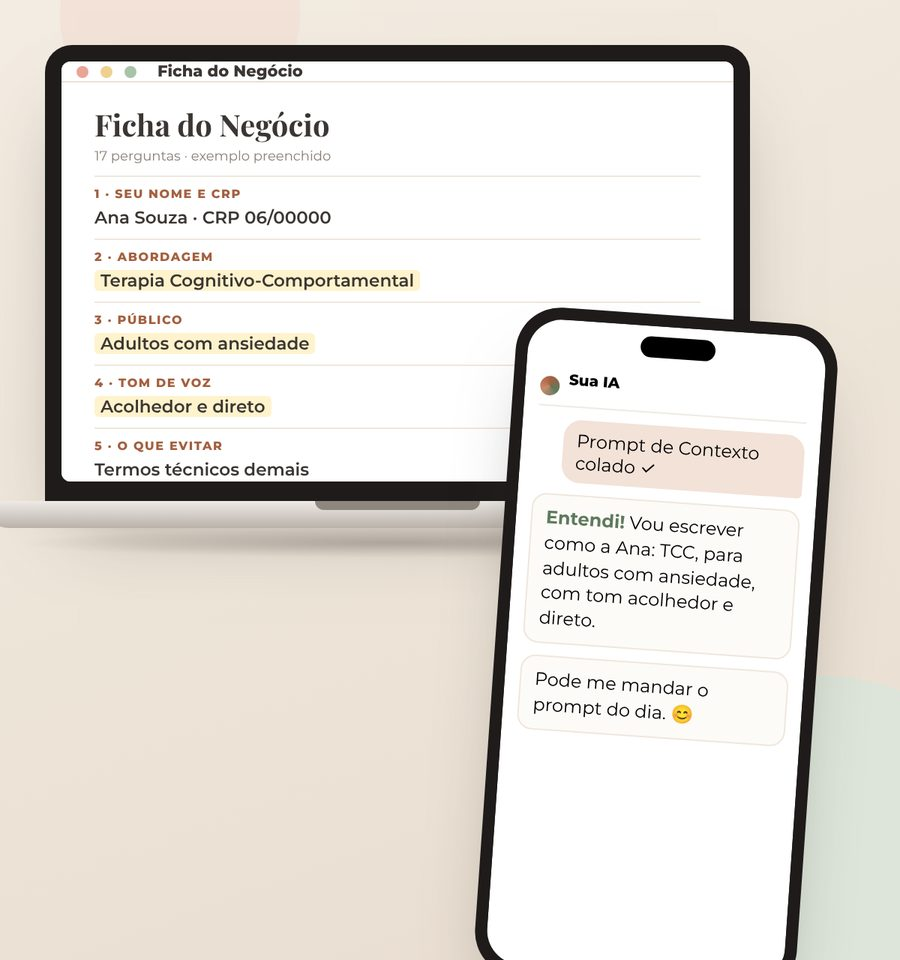
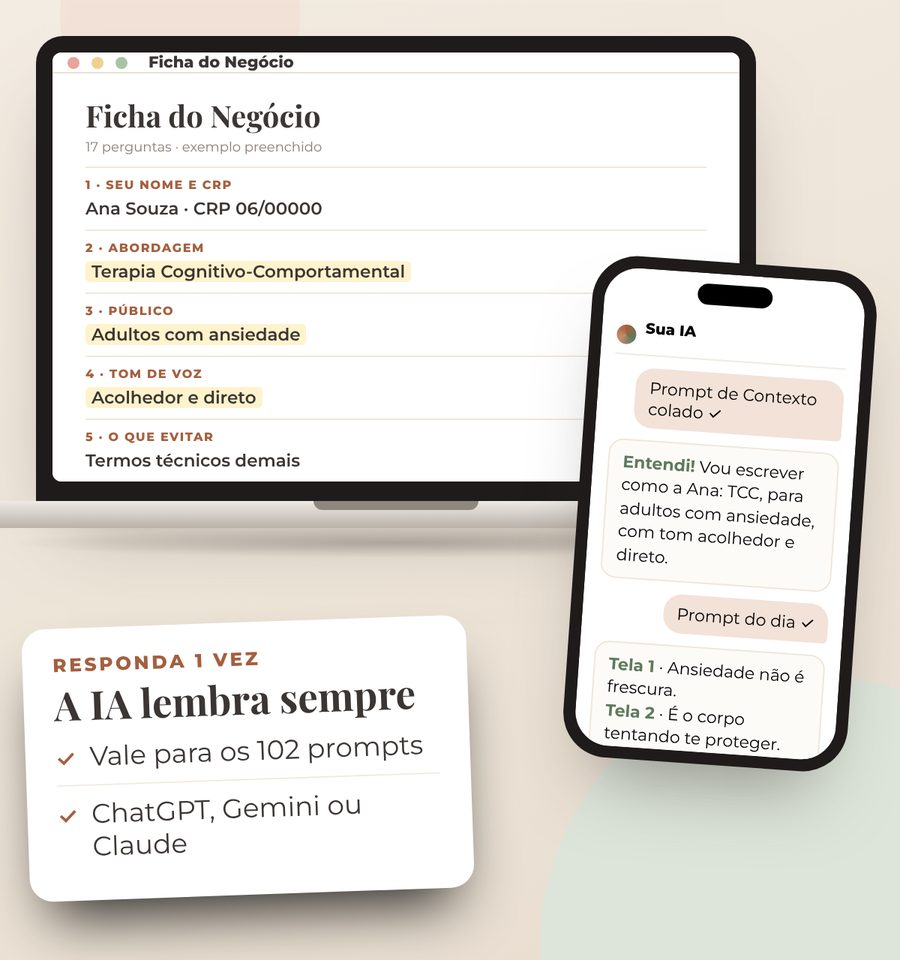
Item Ficha: menos espaço vazio, celular mais curto, cartão 'A IA lembra sempre'
Claude-Session: https://claude.ai/code/session_019gApqEvePQwvVzz1sAvbWL

diff --git a/index.html b/index.html
@@ -1548,7 +1548,7 @@ html,body{overflow-x:clip}
     <div class="itens">
       <article class="it"><div class="it-img"><picture><source media="(max-width:820px)" srcset="img/item-calendario-m.jpg?v=3" width="900" height="960"><img src="img/item-calendario.jpg?v=3" alt="Calendário 365 automático" loading="lazy" width="1440" height="900"></picture></div><div class="it-txt"><span class="it-tag">Calendário</span><h3>Calendário 365 automático</h3><p>Você coloca a data de início e ele organiza o seu ano inteiro: um pilar para cada dia da semana, mais de 700 temas e 8 datas especiais. Todo dia, a aba Hoje entrega o post do dia.</p></div></article>
       <article class="it"><div class="it-img"><picture><source media="(max-width:820px)" srcset="img/item-prompts-m.jpg?v=3" width="900" height="960"><img src="img/item-prompts.jpg?v=3" alt="Banco de 102 prompts para psicologia" loading="lazy" width="1440" height="900"></picture></div><div class="it-txt"><span class="it-tag">Prompts</span><h3>Banco de 102 prompts para psicologia</h3><p>Um pilar para cada dia da semana, de Educar a Convite, com 7 temas em cada prompt. Feitos considerando as orientações do CFP.</p></div></article>
-      <article class="it"><div class="it-img"><picture><source media="(max-width:820px)" srcset="img/item-ficha-m.jpg?v=3" width="900" height="960"><img src="img/item-ficha.jpg?v=3" alt="Ficha do Negócio preenchida com um exemplo e a IA respondendo que vai escrever no tom da psicóloga" loading="lazy" width="1440" height="900"></picture></div><div class="it-txt"><span class="it-tag">Ficha</span><h3>Ficha do Negócio + Prompt de Contexto</h3><p>17 perguntas curtas, respondidas uma vez só. A sua IA passa a escrever com a sua abordagem, o seu público e o seu tom. Com guia para ChatGPT, Gemini e Claude.</p></div></article>
+      <article class="it"><div class="it-img"><picture><source media="(max-width:820px)" srcset="img/item-ficha-m.jpg?v=4" width="900" height="960"><img src="img/item-ficha.jpg?v=4" alt="Ficha do Negócio preenchida com um exemplo e a IA respondendo que vai escrever no tom da psicóloga" loading="lazy" width="1440" height="900"></picture></div><div class="it-txt"><span class="it-tag">Ficha</span><h3>Ficha do Negócio + Prompt de Contexto</h3><p>17 perguntas curtas, respondidas uma vez só. A sua IA passa a escrever com a sua abordagem, o seu público e o seu tom. Com guia para ChatGPT, Gemini e Claude.</p></div></article>
       <article class="it it-op"><div class="it-img"><picture><source media="(max-width:820px)" srcset="img/item-pack-m.jpg?v=3" width="900" height="960"><img src="img/item-pack.jpg?v=3" alt="Pack 20 Modelos Canva" loading="lazy" width="1440" height="900"></picture></div><div class="it-txt"><span class="it-tag">Opcional · R$ 27</span><h3>Pack 20 Modelos Canva</h3><p>20 modelos de vídeo com texto centralizado: troque o texto e baixe em MP4. Funciona com o Canva gratuito. Você adiciona no pagamento, se quiser.</p></div></article>
     </div>
     <div class="guias">
